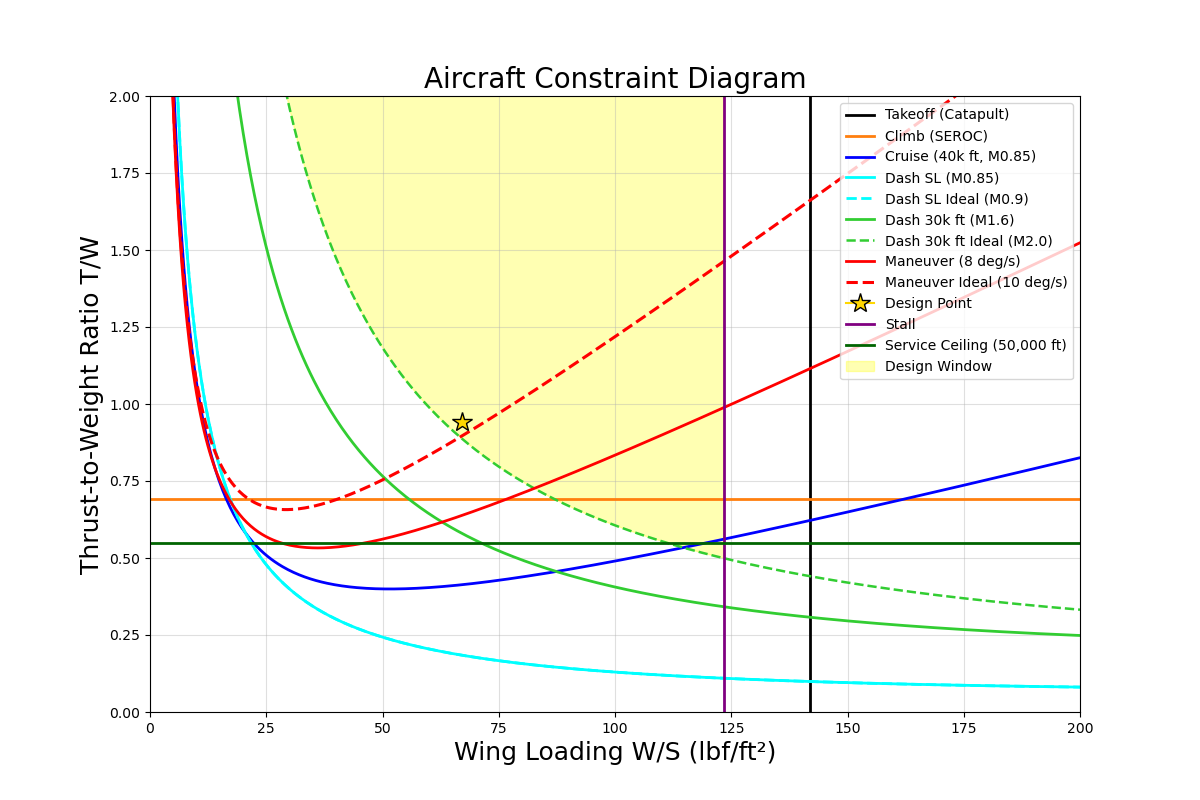
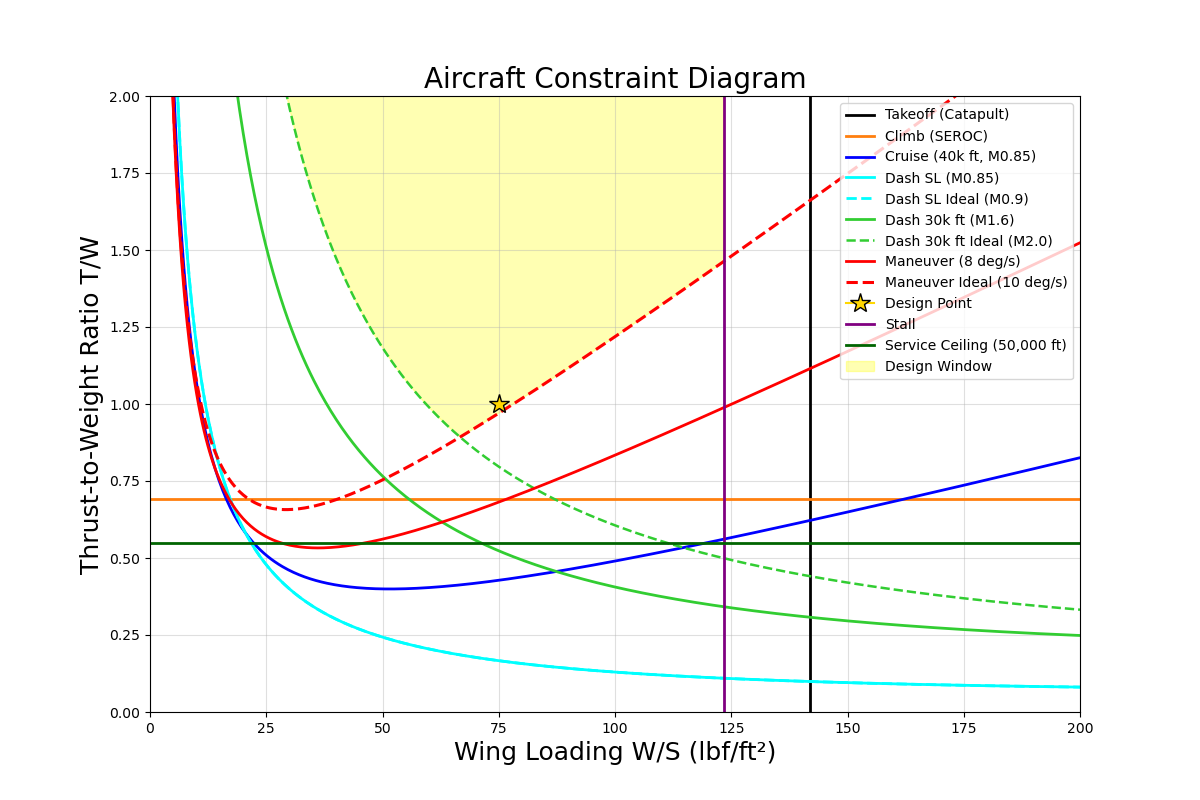
updated figure size and fonts

Changed region(s): [[0.37, 0.3125, 0.6167, 0.7188]]

diff --git a/design_space.py b/design_space.py
@@ -83,7 +83,8 @@ def cr_dash_constraint(v, rho, wf, T_ratio):
     return T_Wcr * wf / T_ratio
 
 mach_cruise = 0.85
-v_cr = mach_cruise * a_40                                                 # ft/s Ma 0.8-0.85 at 40,000ft
+v_cr = mach_cruise * a_40                                                # ft/s Ma 0.8-0.85 at 40,000ft
+print("V cruise: "+str(v_cr))
 Tcr_Tto = Tratio(40000)                                                   
 T_W_cruise = cr_dash_constraint(v_cr, rho_40, cr_wf, Tcr_Tto)
 
@@ -148,18 +149,17 @@ plt.plot(W_S, T_W_dash30ideal, color='limegreen', linestyle='--', linewidth=1.8,
 plt.plot(W_S, T_W_maneuver, color='red', linewidth=2, label='Maneuver (8 deg/s)')
 plt.plot(W_S, T_W_maneuver_ideal, color='red', linestyle='--', linewidth=2.2, label='Maneuver Ideal (10 deg/s)')
 diff = np.abs(T_W_dash30ideal - T_W_maneuver_ideal)
-# Manually placing the point based on your known design values
-# Syntax: plt.plot(x_coordinate, y_coordinate)
-plt.plot(67, 0.94, marker='*', color='gold', markersize=15, 
+plt.plot(75, 1, marker='*', color='gold', markersize=15, 
          markeredgecolor='black', zorder=5, label='Design Point')
 plt.axvline(W_S_stall, color='purple', linewidth=2, label='Stall')
 plt.axhline(T_W_ceiling, color='darkgreen', linewidth=2, label='Service Ceiling (50,000 ft)')
-# Shading the region above Dash 30k Ideal and to the left of Stall
-plt.fill_between(W_S, T_W_dash30ideal, 3, # 3 is an arbitrary high Y-limit for shading
+design_envelope = np.maximum(T_W_dash30ideal, T_W_maneuver_ideal)
+plt.fill_between(W_S, design_envelope, 2.0,  # 2.0 is a safe upper Y-limit
                  where=(W_S <= W_S_stall), 
                  color='yellow', 
                  alpha=0.3, 
-                 label='Design Window')# Formatting
+                 zorder=1,
+                 label='Design Window')
 plt.xlabel('Wing Loading W/S (lbf/ft²)', fontsize=18)
 plt.ylabel('Thrust-to-Weight Ratio T/W', fontsize=18)
 plt.title('Aircraft Constraint Diagram', fontsize=20)

diff --git a/plot_drag_polars.py b/plot_drag_polars.py
@@ -32,6 +32,7 @@ e_lnd = 0.725
 CD_lndwn = CDO_lndwn + (1/(3.14)*(e_lnd)*(AR))*np.square(CL)
 
 #PLOTTING
+plt.figure(figsize=(8,7))
 plt.plot(CD_cl, CL, label = "Clean")
 plt.plot(CD_tkup, CL, label = "Takeoff / Gears Up")
 plt.plot(CD_tkdwn, CL, label = "Takeoff / Gears Down")
@@ -41,7 +42,7 @@ plt.legend()
 plt.legend(loc="best")
 plt.xlim(0, 0.45)
 plt.ylim(-1, 1)
-plt.title("Drag Polar Plot")
-plt.xlabel("$C_D$")
-plt.ylabel("$C_L$")
+plt.title("Drag Polar Plot", fontsize=26)
+plt.xlabel("$C_D$", fontsize=20)
+plt.ylabel("$C_L$", fontsize=20)
 plt.show()
